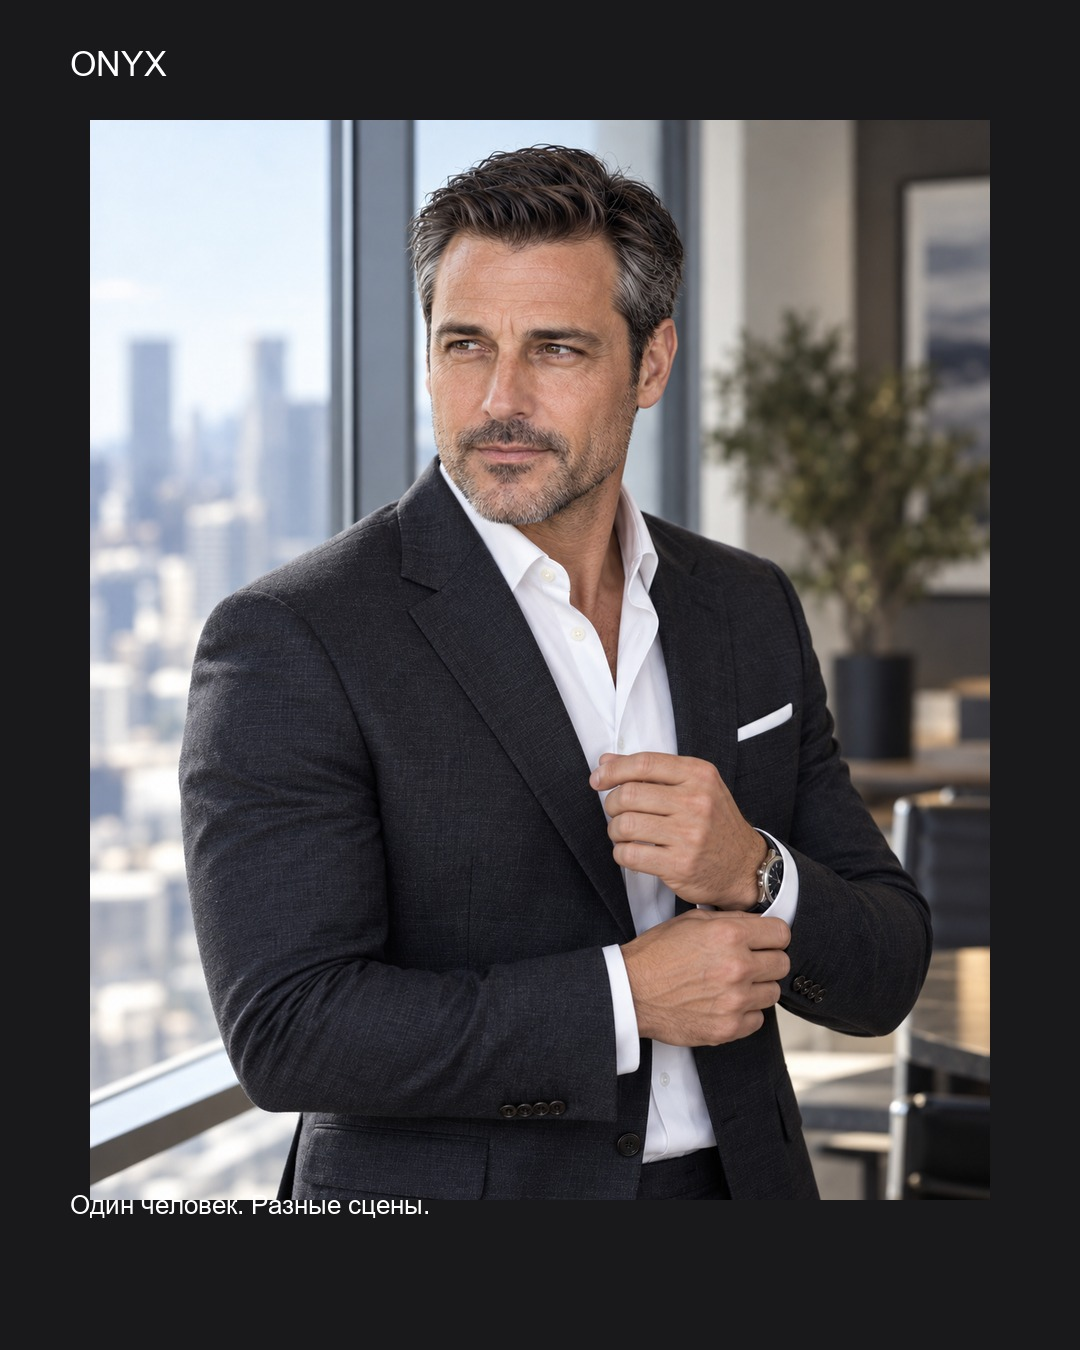
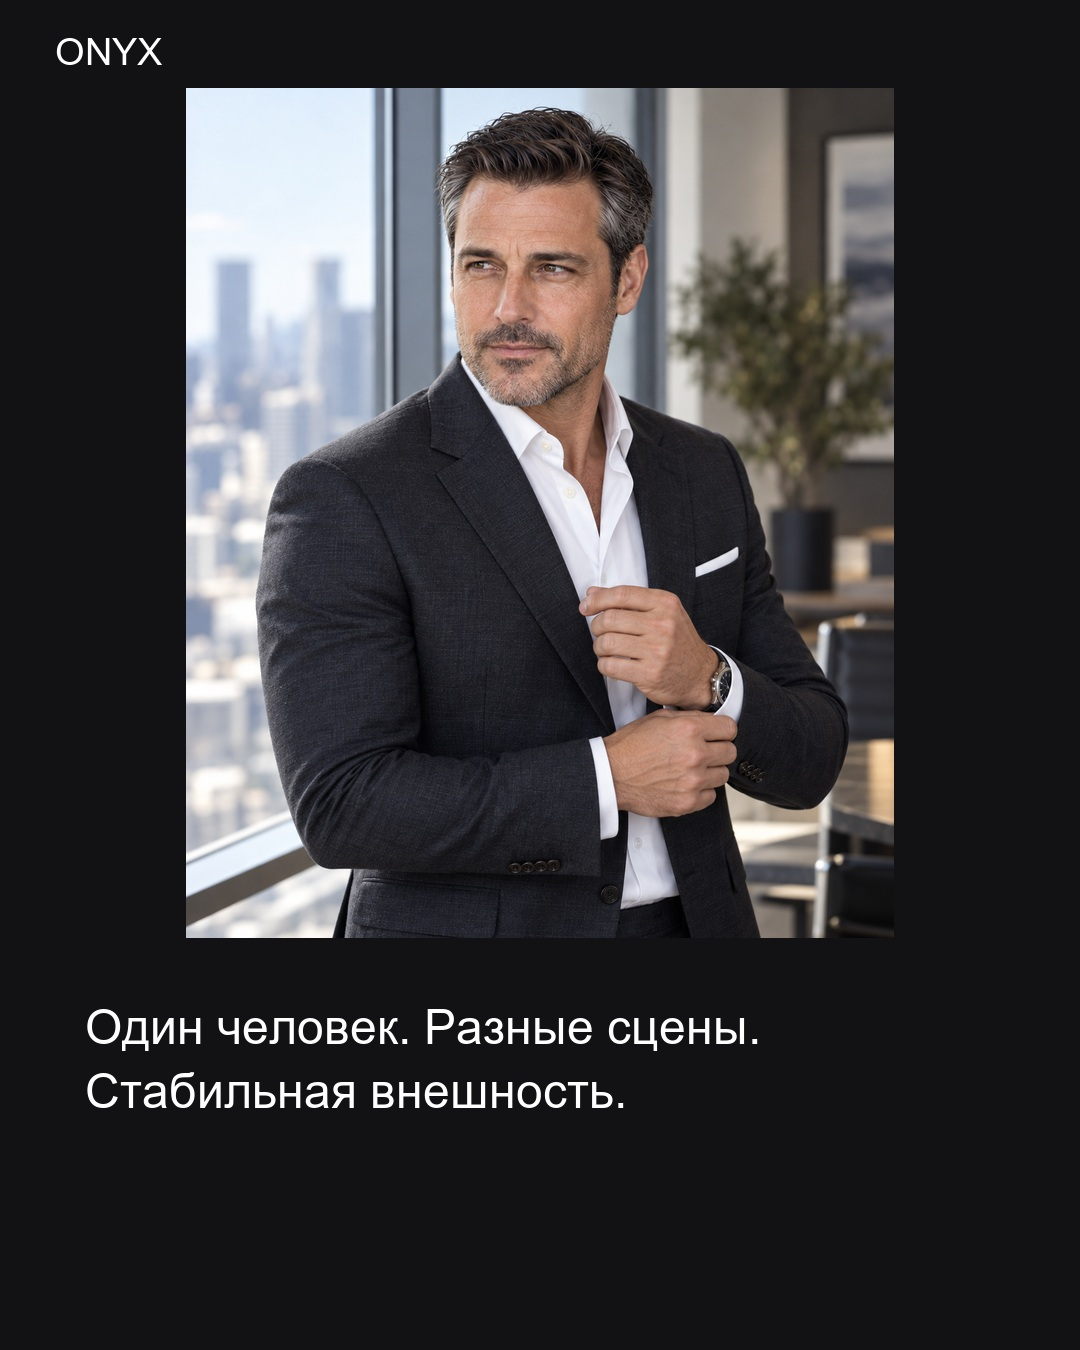
fix(marketing): preserve P03 carousel typography and comparison update

diff --git a/09 Experiments/identity_benchmark_v1/P03_M45_Executive/04_portfolio/executive_v1/finalize_pack.py b/09 Experiments/identity_benchmark_v1/P03_M45_Executive/04_portfolio/executive_v1/finalize_pack.py
@@ -34,13 +34,25 @@ def grid(ps,out,labels=True,title='ONYX — EXECUTIVE'):
   if labels:d.text((x,100+(k//5)*440),a['id'],font=F(22),fill='white')
  c.save(out,quality=92)
 grid(assets,R/'05_marketing/01_contact_sheet/P03_executive_v1_contact_sheet.jpg');grid(assets,R/'05_marketing/01_contact_sheet/P03_executive_v1_contact_sheet_clean.jpg',False)
+card_copy=['Виртуальная деловая фотосессия','Один человек. Разные сцены. Стабильная внешность.','Портреты, кабинет, переговорная, движение, полный рост.','Рабочие моменты, профиль и естественные ракурсы.','Для LinkedIn, сайта, выступлений и личного бренда.','Концепция серии, подбор сцен и подготовка web-версий.','Проверяем лицо, руки, пропорции и разнообразие серии.','10 профессиональных кадров в единой деловой серии.','Ваши фотографии → виртуальная фотосессия ONYX','Virtual Photo Studio']
+def wrap(d,text,f,width):
+ words=text.split(); lines=[]; line=''
+ for word in words:
+  next_line=(line+' '+word).strip()
+  if d.textbbox((0,0),next_line,font=f)[2] <= width: line=next_line
+  else: lines.append(line); line=word
+ if line:lines.append(line)
+ return lines
 for k,a in enumerate(assets,1):
- im=Image.open(S/a['canonical_filename']).convert('RGB');c=Image.new('RGB',(1080,1350),(25,25,28));t=thumb(im,(940,1080));c.paste(t,((1080-t.width)//2,120));d=ImageDraw.Draw(c);d.text((70,45),'ONYX',font=F(34),fill='white');d.text((70,1190),['Виртуальная деловая фотосессия','Один человек. Разные сцены.','Профессиональная серия','Работа, движение, профиль','Для LinkedIn и сайта','Концепция и контроль качества','Проверяем детали','10 кадров в единой серии','Ваша виртуальная фотосессия','Virtual Photo Studio'][k-1],font=F(26),fill='white');c.save(R/f'05_marketing/02_avito_carousel/P03_executive_card_{k:02}.jpg',quality=92)
+ im=Image.open(S/a['canonical_filename']).convert('RGB');c=Image.new('RGB',(1080,1350),(18,18,21));t=thumb(im,(970,850));c.paste(t,((1080-t.width)//2,88));d=ImageDraw.Draw(c);d.text((55,30),'ONYX',font=F(38),fill='white');f=F(48);lines=wrap(d,card_copy[k-1],f,900); y=1000
+ for line in lines:d.text((85,y),line,font=f,fill='white');y+=64
+ c.save(R/f'05_marketing/02_avito_carousel/P03_executive_card_{k:02}.jpg',quality=94)
 grid([assets[i] for i in [0,2,5,9]],R/'05_marketing/04_social/P03_executive_square_collage.jpg',False);grid([assets[i] for i in [0,3,5,7,8,9]],R/'05_marketing/04_social/P03_executive_clean_grid_6.jpg',False);grid([assets[i] for i in [0,2,5,9]],R/'05_marketing/04_social/P03_executive_clean_grid_4.jpg',False)
 for name,a in [('P03_executive_portrait_showcase.jpg',assets[0]),('P03_executive_story_cover.jpg',assets[9])]:Image.open(S/a['canonical_filename']).convert('RGB').save(R/'05_marketing/04_social'/name,quality=92)
-master=R.parents[1]/'00_master/P03_identity_master_v1.png';c=Image.new('RGB',(1600,900),(25,25,28));
-for p,x,label in [(master,80,'Source identity'),(S/assets[9]['canonical_filename'],870,'Final executive series')]:
- im=thumb(Image.open(p).convert('RGB'),(620,720));c.paste(im,(x+(620-im.width)//2,100));ImageDraw.Draw(c).text((x,835),label,font=F(28),fill='white')
+collage=R.parents[1]/'02_source_generations/P03_approved_character_collage_v1.png';c=Image.new('RGB',(1600,900),(25,25,28));
+ref=Image.open(collage).convert('RGB'); w,h=ref.size; ref=ref.crop((w//2+8,8,w-8,h//2-8))
+for p,x,label in [(ref,80,'Source identity concept — smart casual'),(S/assets[9]['canonical_filename'],870,'Final executive series')]:
+ im=thumb(p if isinstance(p,Image.Image) else Image.open(p).convert('RGB'),(620,720));c.paste(im,(x+(620-im.width)//2,100));ImageDraw.Draw(c).text((x,835),label,font=F(28),fill='white')
 c.save(R/'05_marketing/03_before_after/P03_identity_to_executive.jpg',quality=92)
 copy={'avito_description_v1.md':'# Виртуальная деловая фотосессия\n\nПрофессиональная серия для сайта, LinkedIn, резюме и личного бренда. Разные сцены и ракурсы формируют цельный визуальный образ.','website_collection_v1.md':'# Executive collection\n\nПремиальная деловая серия с естественным характером, рабочими сценами и уверенной подачей.','short_social_caption_v1.md':'Деловой образ, который работает в разных ситуациях.','portfolio_caption_v1.md':'Executive v1 — серия портретов, рабочих сцен и полноростовых кадров в единой профессиональной стилистике.'}
 for n,t in copy.items():(R/'05_marketing/05_copy'/n).write_text(t+'\n',encoding='utf8')
